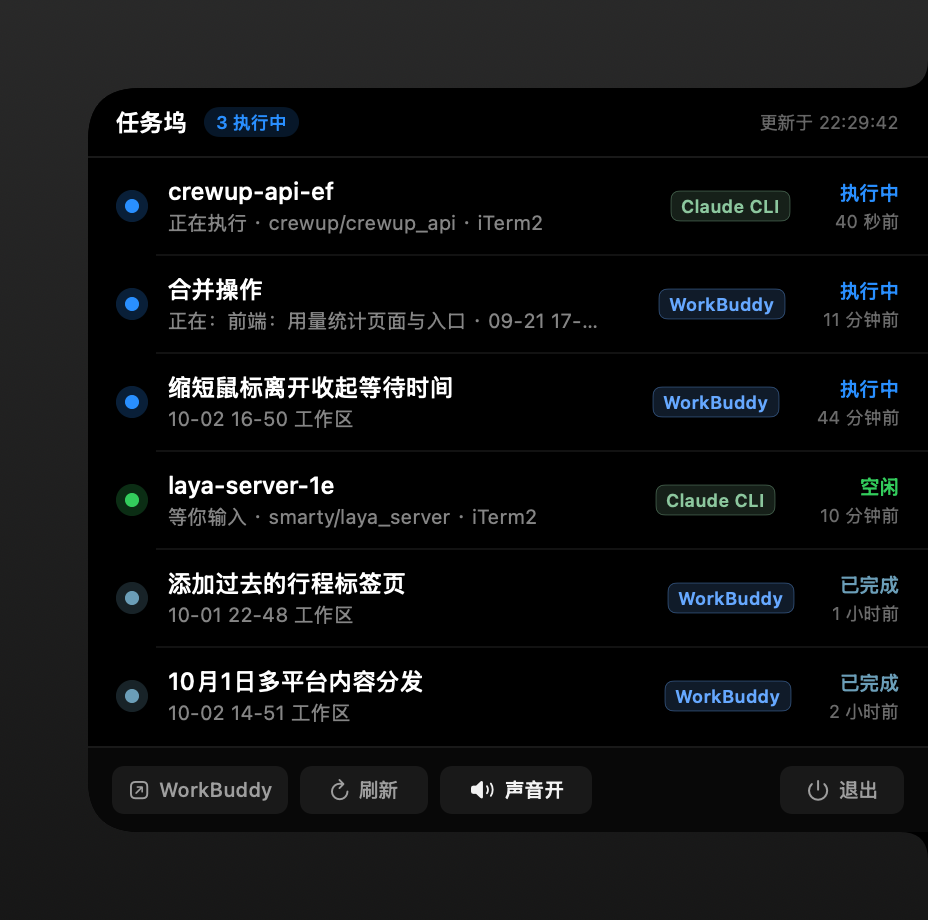
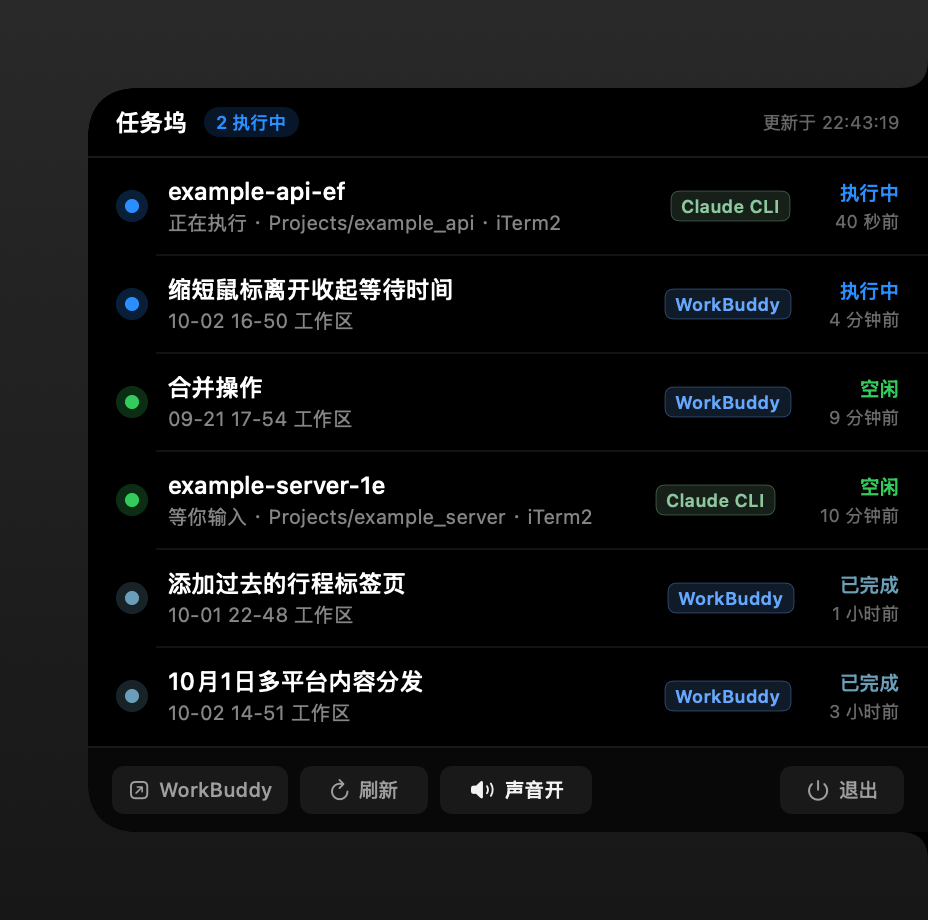
chore: 项目目录改名 notch_tasks，顺带清掉源码里的个人路径
- README 徽章 / clone 地址、issue 模板的 Discussions 链接、仓库名说明，
  统一 agent_task_hub → notch_tasks（release 产物名仍是 NotchTasks-x.y.z-...）
- 预览用的示例 CLI 行原来硬编码了 /Users/yaoyang/... 的真实工程路径，
  换成 ~/Projects/example_api 这种中性路径——这些示例会被渲染进 docs/ 的图，
  仓库是公开的，不该带个人目录结构

diff --git a/Sources/TaskStore.swift b/Sources/TaskStore.swift
@@ -343,14 +343,16 @@ final class TaskStore: ObservableObject {
 
     private static func demoClaudeItems() -> [TaskItem] {
         let now = Date()
+        // 路径要中性：这些示例行会被渲染进 docs/ 的预览图，仓库是公开的
+        let home = NSHomeDirectory()
         return [
-            TaskItem(id: "demo-1", kind: .claude, title: "crewup-api-ef",
+            TaskItem(id: "demo-1", kind: .claude, title: "example-api-ef",
                      detail: "正在执行",
-                     cwd: "/Users/yaoyang/Developments.localized/company/crewup/crewup_api",
+                     cwd: home + "/Projects/example_api",
                      state: .running, updatedAt: now.addingTimeInterval(-40)),
-            TaskItem(id: "demo-2", kind: .claude, title: "laya-server-1e",
+            TaskItem(id: "demo-2", kind: .claude, title: "example-server-1e",
                      detail: "等你输入",
-                     cwd: "/Users/yaoyang/Developments.localized/company/smarty/laya_server",
+                     cwd: home + "/Projects/example_server",
                      state: .idle, updatedAt: now.addingTimeInterval(-600)),
         ]
     }

diff --git a/README.md b/README.md
@@ -9,14 +9,14 @@
 </p>
 
 <p align="center">
-  <a href="https://github.com/OWNER/agent_task_hub/actions/workflows/ci.yml"><img alt="CI" src="https://github.com/OWNER/agent_task_hub/actions/workflows/ci.yml/badge.svg"></a>
-  <a href="https://github.com/OWNER/agent_task_hub/releases/latest"><img alt="Release" src="https://img.shields.io/github/v/release/OWNER/agent_task_hub?display_name=tag&sort=semver"></a>
+  <a href="https://github.com/OWNER/notch_tasks/actions/workflows/ci.yml"><img alt="CI" src="https://github.com/OWNER/notch_tasks/actions/workflows/ci.yml/badge.svg"></a>
+  <a href="https://github.com/OWNER/notch_tasks/releases/latest"><img alt="Release" src="https://img.shields.io/github/v/release/OWNER/notch_tasks?display_name=tag&sort=semver"></a>
   <img alt="macOS 14+" src="https://img.shields.io/badge/macOS-14%2B-black">
   <img alt="Universal" src="https://img.shields.io/badge/arch-arm64%20%7C%20x86__64-blue">
   <a href="LICENSE"><img alt="License" src="https://img.shields.io/badge/license-MIT-green"></a>
 </p>
 
-> 仓库名是 `agent_task_hub`，产物和应用名是 `NotchTasks` /「任务坞」。
+> 仓库名是 `notch_tasks`，产物和应用名是 `NotchTasks` /「任务坞」。
 
 鼠标停到屏幕右边缘靠上的把手，面板向左展开；有任务**完成**或**待确认**时，
 把手会亮起脉冲描边 + 光晕 + 角标，并可选地响一声、发一条系统通知。
@@ -28,7 +28,7 @@
 
 ## 安装
 
-**下载现成的**：到 [Releases](https://github.com/OWNER/agent_task_hub/releases/latest) 下载
+**下载现成的**：到 [Releases](https://github.com/OWNER/notch_tasks/releases/latest) 下载
 `NotchTasks-<版本>-macos-universal.zip`，解压把 `NotchTasks.app` 拖进「应用程序」。
 
 首次打开会被 Gatekeeper 拦（产物是 ad-hoc 签名，没有 Developer ID），
@@ -41,8 +41,8 @@ xattr -dr com.apple.quarantine /Applications/NotchTasks.app
 **自己编**：
 
 ```bash
-git clone https://github.com/OWNER/agent_task_hub.git
-cd agent_task_hub
+git clone https://github.com/OWNER/notch_tasks.git
+cd notch_tasks
 ./run.sh
 ```
 
